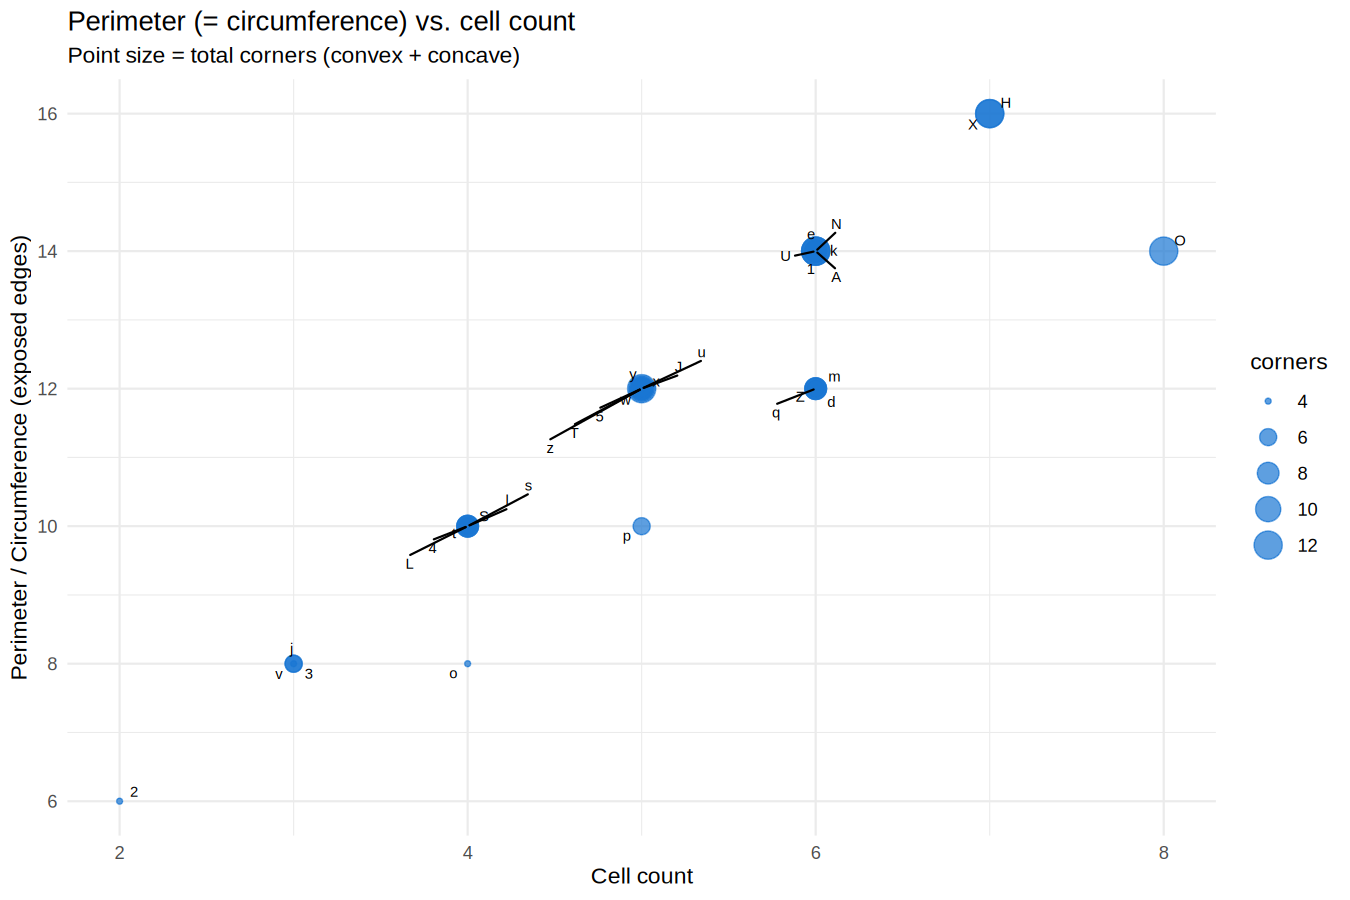
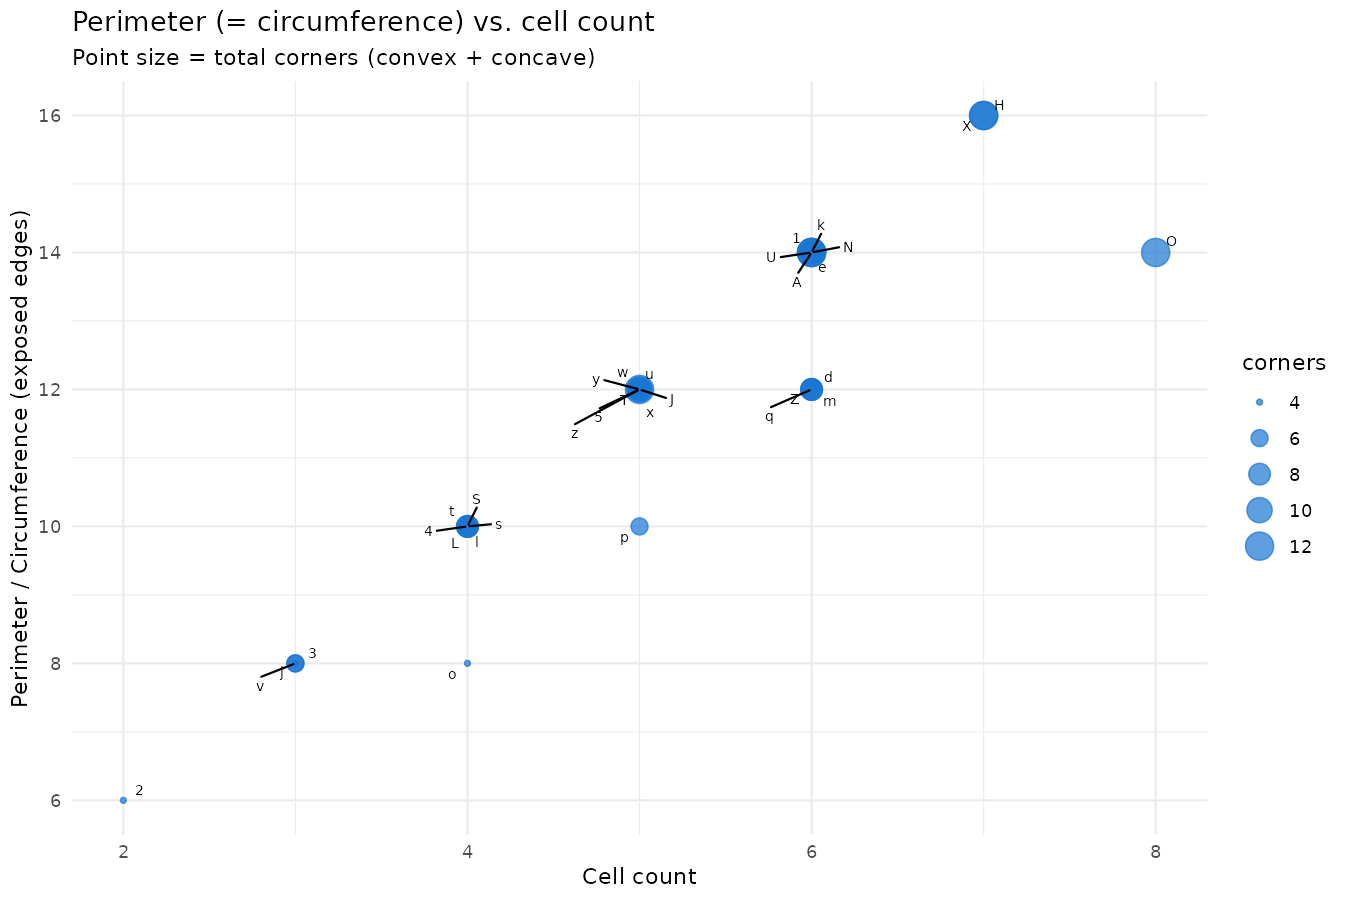
analysis: align gain-model terminology with canonical glossary; regenerate plots
- Use canonical "button-income space" / "projected income" / "patch gain"
  terms in tile_analysis.R comments, README, and the analysis spec; rename
  the internal payout_spaces vector to income_spaces.
- Document the patch gain model (placement gain + projected income) and the
  gain_per_time >= 1.0 break-even concept in analysis/README.md.
- Regenerate analysis/output PNGs with the current plotting toolchain
  (data/CSVs unchanged; PNG bytes differ only due to renderer version).

Claude-Session: https://claude.ai/code/session_01JU2AkxF1Ju3XTj5jrkgz5E

diff --git a/openspec/specs/analysis/spec.md b/openspec/specs/analysis/spec.md
@@ -33,9 +33,9 @@ Circumference equals perimeter for grid-cell shapes: both count exposed cell edg
 
 ### Requirement: Patch gain model is computed for every patch at all positions
 
-The analysis script SHALL compute patch gain for each patch at all time-track positions 0–53 and at representative positions for each payout band (0–4, 5–10, 11–16, 17–22, 23–28, 29–34, 35–40, 41–46, 47–52, 53). **Placement gain** = 2 × cells − button cost. **Projected income at pos** = button income × `reachable_payouts(pos)`. **Total gain at pos** = placement gain + projected income at pos. **Gain per time cost at pos** = total gain at pos / time cost. Patches with `time == 0` SHALL be excluded from the per-time-cost metric.
+The analysis script SHALL compute patch gain for each patch at all time-track positions 0–53 and at representative positions for each payout band (0–4, 5–10, 11–16, 17–22, 23–28, 29–34, 35–40, 41–46, 47–52, 53). **Placement gain** = 2 × cells − button cost. **Projected income at pos** = button income × `reachable_payouts(pos)`. **Total patch gain at pos** = placement gain + projected income at pos. **Gain per time cost at pos** = total patch gain at pos / time cost. Patches with `time == 0` SHALL be excluded from the per-time-cost metric. These definitions match the canonical **patch gain** in `docs/glossary.md`.
 
-`reachable_payouts(pos)` counts how many of the nine payout spaces (time positions 5, 11, 17, 23, 29, 35, 41, 47, 53) are strictly greater than `pos`.
+`reachable_payouts(pos)` counts how many of the nine button-income spaces (also called payout spaces — time positions 5, 11, 17, 23, 29, 35, 41, 47, 53, the same in both the simplified engine and the full game) are strictly greater than `pos`.
 
 #### Scenario: Reachable payouts at key positions
 

diff --git a/analysis/README.md b/analysis/README.md
@@ -6,6 +6,16 @@ This directory contains R scripts that analyse the Patchwork patch catalog and p
 
 The scripts compute shape features and gain metrics for all 33 patches based solely on `data/patches.yaml`. The resulting tables and plots are committed to the repository so they are available without re-running R.
 
+## Gain model
+
+Terminology follows `docs/glossary.md`. **Patch gain** is the net effect on a player's final score from acquiring a patch:
+
+- **placement gain** = 2 × (squares covered) − button cost
+- **projected income** = button income × (number of button-income spaces remaining)
+- **total patch gain** = placement gain + projected income
+
+The nine button-income spaces (also called payout spaces) sit at time-track positions 5, 11, 17, 23, 29, 35, 41, 47, 53 — the same in both the simplified engine and the full game. `gain_per_time` normalises total patch gain by the patch's time cost. Because the advance move yields a nominal 1 button per time unit, `gain_per_time ≥ 1.0` marks the break-even: `advance_breakeven_pos` is the latest position at which buying the patch still matches or beats advancing.
+
 ## Required R Packages
 
 Packages declared in `DESCRIPTION` are loaded via `pkgload::load_all()`. The following additional packages must be installed separately before running the script:
